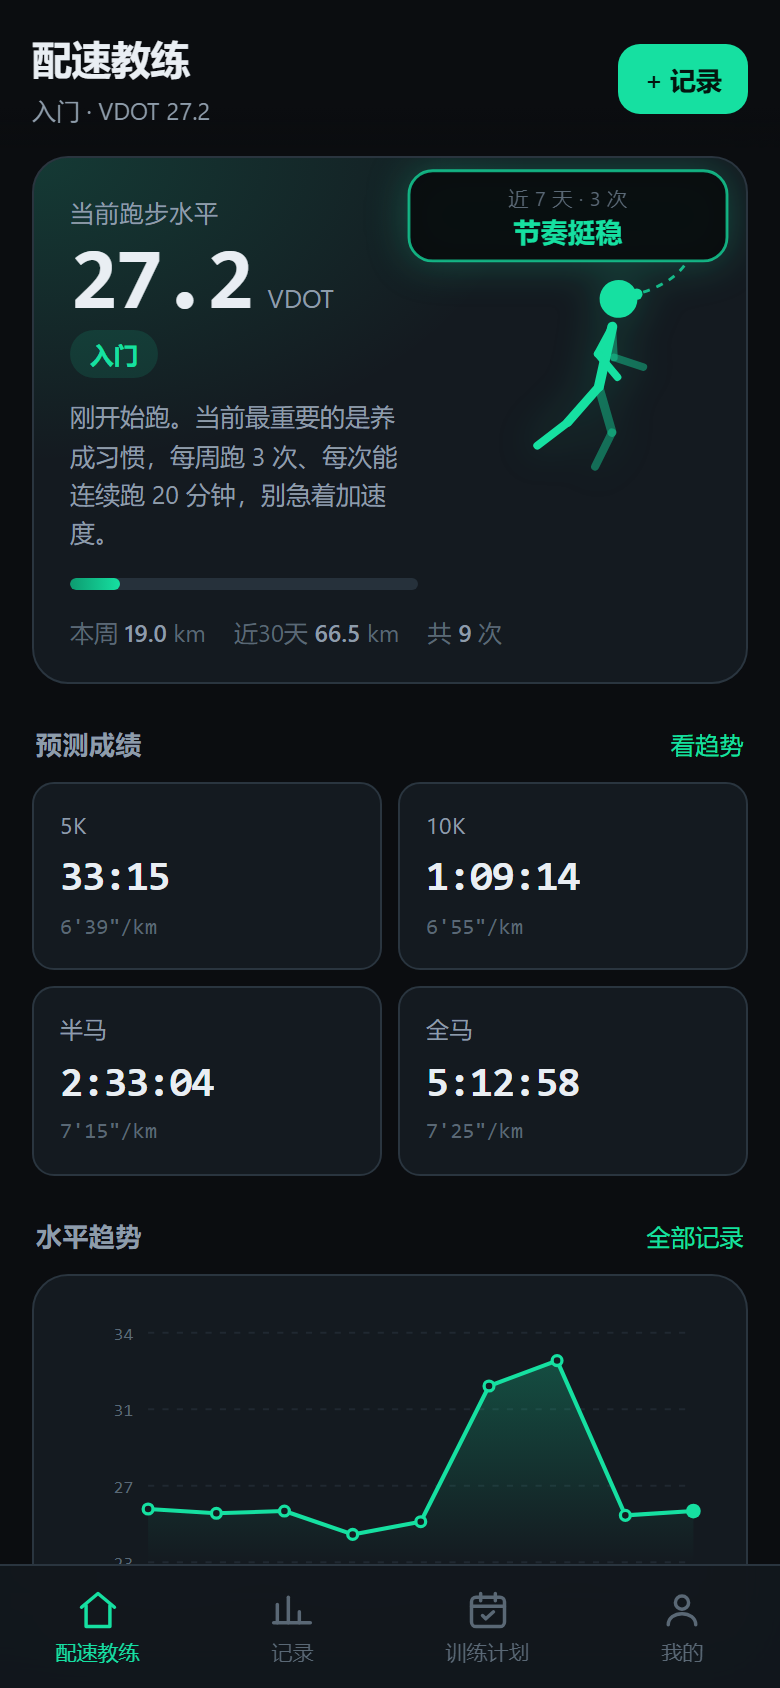
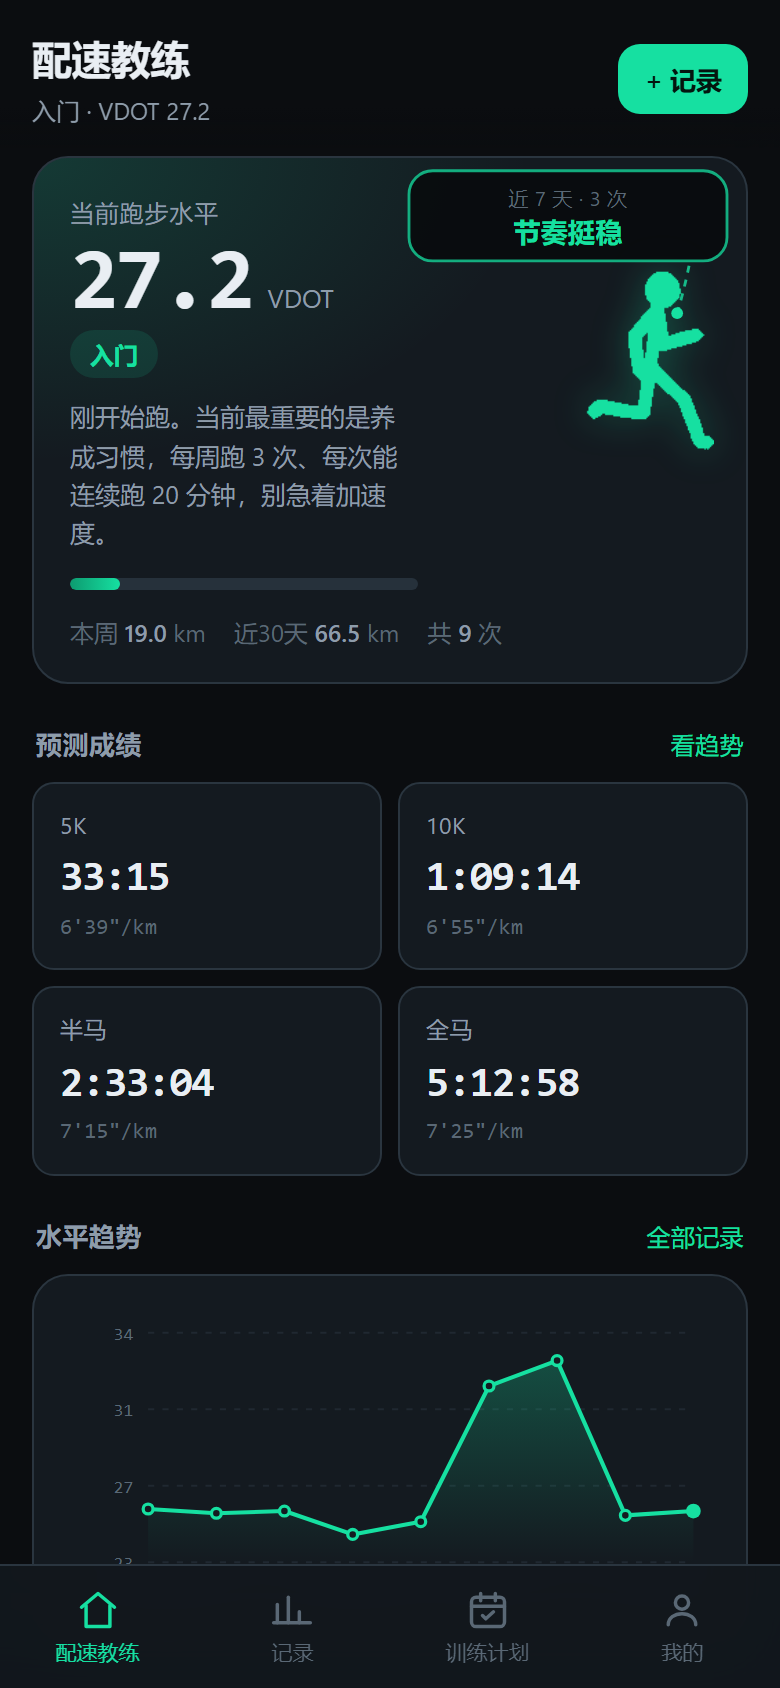
feat: 火柴人改用参考视频的 9 帧序列图（v1.4.2）
我按「看图估关节角度」的方式手画过两版，都被判定不像 —— 火柴人跑步的关节
关系比想象中微妙，差 10 度就是「跨大步」和「小碎步」的区别。

既然有权威动作参考，就不再自己设计姿势：
- 从用户给的 9 帧分解图里把火柴人抠出来（蓝色 mask + 开运算去噪）
- 用固定裁剪框保证 9 帧对齐，播放时不跳
- 颜色替换成主色 #16e0a1
- 9 帧透明 PNG 共 8.4KB

数据驱动保留在速度：一个完整循环 = 120 / 步频 秒，9 帧均分。
帧图叠放在同一位置靠 .on 切换显隐，避免换 src 时闪白；启动时预解码。

顺带修：批量替换时误删了 heroCard / predGrid 两个函数，从 git 取回。
Image 预加载加 typeof 保护（单测在 node 里跑，没有这个构造函数）。

Changed region(s): [[0.6769, 0.154, 0.9231, 0.2773]]

diff --git a/js/app.js b/js/app.js
@@ -35,6 +35,16 @@ function recompute() {
 let stats;
 recompute();
 
+// 预热火柴人的 9 张序列帧：提前解码，切帧时才不会闪白。
+// 用 typeof 判断而不是直接 new Image()：单测在 node 里跑，没有这个构造函数，
+// 模块顶层一碰就抛错，整个测试文件跟着挂。
+if (typeof Image !== 'undefined') {
+  for (let i = 1; i <= 9; i++) {
+    const im = new Image();
+    im.src = `assets/runner/f${i}.png`;
+  }
+}
+
 const ui = { tab: 'home', modal: null, ocr: null, planWeeks: 4, planFilter: 'all' };
 
 // 支持 index.html#plan 直接打开某个 tab。
@@ -100,161 +110,16 @@ const ICON = {
  * "绕一个点旋转"，拼不出膝盖向后折成 V 字这种形状（试过，折角小了像走路、
  * 折角大了像腿断）。这里每帧重算 6 个关节坐标、10 条线段，开销可以忽略。
  */
-function runnerFigure() {
-  const rh = stats.rhythm;
-  const mood = stats.mood;
-  if (!rh || !mood) return '';
-
-  const tone =
-    { good: 'var(--primary)', warn: 'var(--warn)', calm: 'var(--text-dim)', danger: 'var(--danger)' }[mood.tone] ||
-    'var(--primary)';
-
-  const sub = `近 7 天 · ${rh.count} 次${rh.estimated ? '（估算）' : ''}`;
-  const back = 'rgba(22,224,161,0.42)';
-
-  return `
-  <svg class="runner-art" viewBox="0 0 150 134" aria-hidden="true">
-    <!-- 骨架：所有坐标由 startRunnerAnim() 每帧重算 -->
-    <g class="fig">
-      <!-- 后臂（暗） -->
-      <line class="a-b-up" stroke="${back}" stroke-width="3.2" stroke-linecap="round"/>
-      <line class="a-b-fore" stroke="${back}" stroke-width="3.2" stroke-linecap="round"/>
-      <!-- 后腿（暗） -->
-      <line class="l-b-thigh" stroke="${back}" stroke-width="3.8" stroke-linecap="round"/>
-      <line class="l-b-shin" stroke="${back}" stroke-width="3.4" stroke-linecap="round"/>
-
-      <!-- 躯干 + 头 -->
-      <line class="spine" stroke="var(--primary)" stroke-width="4.2" stroke-linecap="round"/>
-      <circle class="head" r="8" fill="var(--primary)"/>
-
-      <!-- 前腿（亮） -->
-      <line class="l-f-thigh" stroke="var(--primary)" stroke-width="3.8" stroke-linecap="round"/>
-      <line class="l-f-shin" stroke="var(--primary)" stroke-width="3.4" stroke-linecap="round"/>
-      <!-- 前臂（亮） -->
-      <line class="a-f-up" stroke="var(--primary)" stroke-width="3.2" stroke-linecap="round"/>
-      <line class="a-f-fore" stroke="var(--primary)" stroke-width="3.2" stroke-linecap="round"/>
-    </g>
-
-    <!-- 状态气泡：压在火柴人右上，虚线引线指到头部 -->
-    <g class="mood-bubble" data-act="mood:info">
-      <rect x="8" y="2" width="134" height="38" rx="10"
-        fill="rgba(9,12,14,0.94)" stroke="${tone}" stroke-width="1.2" stroke-opacity="0.75"/>
-      <text x="75" y="17" text-anchor="middle" font-size="8.5" fill="var(--text-faint)" letter-spacing="0.2">${esc(sub)}</text>
-      <text x="75" y="32" text-anchor="middle" font-size="11.5" font-weight="600" fill="${tone}">${esc(mood.text)}</text>
-      <path d="M124 42 Q118 50 104 54" fill="none" stroke="${tone}" stroke-width="1.2"
-        stroke-dasharray="3 3" stroke-opacity="0.8"/>
-      <circle cx="104" cy="54" r="2.6" fill="${tone}">
-        <animate attributeName="r" values="2;3.2;2" dur="2s" repeatCount="indefinite"/>
-      </circle>
-    </g>
-  </svg>`;
-}
-
-let runnerRAF = 0;
-
-/** 逐帧驱动火柴人。render() 之后调用；页面切走时靠 contains 检查自然停下。 */
-function startRunnerAnim() {
-  if (runnerRAF) cancelAnimationFrame(runnerRAF);
-  runnerRAF = 0;
-
-  const svg = document.querySelector('.runner-art');
-  const rh = stats.rhythm;
-  if (!svg || !rh) return;
-
-  const clamp = (v, lo, hi) => (v < lo ? lo : v > hi ? hi : v);
-
-  const cycle = clamp(120 / rh.cadence, 0.54, 1.05);
-  const swing = (clamp(22 + (rh.strideCm - 70) * 0.42, 22, 48) * Math.PI) / 180;
-  // 前倾给到 8–24 度：低于 8 度看着像走路，超过 24 度开始像摔倒
-  const lean = clamp(8 + (480 - rh.paceSec) * 0.06, 8, 24);
-
-  const q = (s) => svg.querySelector(s);
-  const fig = q('.fig');
-  const spine = q('.spine');
-  const head = q('.head');
-  const nodes = {
-    lfT: q('.l-f-thigh'), lfS: q('.l-f-shin'),
-    lbT: q('.l-b-thigh'), lbS: q('.l-b-shin'),
-    afU: q('.a-f-up'), afF: q('.a-f-fore'),
-    abU: q('.a-b-up'), abF: q('.a-b-fore'),
-  };
-  if (!fig || !spine || !head) return;
-
-  // 骨架尺寸（viewBox 150×134）。髋是全身的根，头/肩/腿都相对它算。
-  const HIP = { x: 88, y: 94 };
-  const L1 = 20; // 大腿
-  const L2 = 16; // 小腿
-  const SH = { x: 88, y: 68 };
-  const U1 = 13; // 上臂
-  const U2 = 13; // 前臂
-  const HEAD = { x: 88, y: 56 };
-
-  const line = (n, x1, y1, x2, y2) => {
-    if (!n) return;
-    n.setAttribute('x1', x1.toFixed(1));
-    n.setAttribute('y1', y1.toFixed(1));
-    n.setAttribute('x2', x2.toFixed(1));
-    n.setAttribute('y2', y2.toFixed(1));
-  };
-
-  /**
-   * 一条腿。p 是相位：
-   *   cos(p)>0 → 大腿在前（脚落地），cos(p)<0 → 大腿在后（蹬地结束）
-   *   sin(p)<0 → 摆动相，此时膝盖后折（这是跑步最显著的视觉特征）
-   */
-  const leg = (p, thigh, shin) => {
-    const a1 = swing * Math.cos(p);
-    const knee = 0.2 + 0.82 * Math.max(0, -Math.sin(p));
-    const kx = HIP.x + L1 * Math.sin(a1);
-    const ky = HIP.y + L1 * Math.cos(a1);
-    const a2 = a1 - knee;
-    line(thigh, HIP.x, HIP.y, kx, ky);
-    line(shin, kx, ky, kx + L2 * Math.sin(a2), ky + L2 * Math.cos(a2));
-  };
-
-  /** 一条臂。跑步时手臂始终保持弯曲，这是姿态像不像的关键。 */
-  const arm = (p, up, fore) => {
-    const a1 = -0.55 * swing * Math.cos(p);
-    const ELBOW = 1.2;
-    const ex = SH.x + U1 * Math.sin(a1);
-    const ey = SH.y + U1 * Math.cos(a1);
-    const a2 = a1 + ELBOW;
-    line(up, SH.x, SH.y, ex, ey);
-    line(fore, ex, ey, ex + U2 * Math.sin(a2), ey + U2 * Math.cos(a2));
-  };
-
-  const t0 = performance.now();
-
-  const frame = (now) => {
-    // 重渲染会把节点整个换掉，这里检测到就停，避免对已删除的节点做无用功
-    if (!document.body.contains(svg)) {
-      runnerRAF = 0;
-      return;
-    }
-    const ph = (((now - t0) / 1000) / cycle) * Math.PI * 2;
-
-    // 每落地一步身体下沉一次，所以是一个周期两次
-    const bob = -1.4 * Math.abs(Math.sin(ph));
-    fig.setAttribute(
-      'transform',
-      `translate(0 ${bob.toFixed(2)}) rotate(${lean.toFixed(1)} ${HIP.x} ${HIP.y})`
-    );
-
-    line(spine, HIP.x, HIP.y, SH.x, SH.y);
-    head.setAttribute('cx', HEAD.x);
-    head.setAttribute('cy', HEAD.y);
-
-    leg(ph, nodes.lfT, nodes.lfS);
-    leg(ph + Math.PI, nodes.lbT, nodes.lbS);
-    arm(ph + Math.PI, nodes.afU, nodes.afF);
-    arm(ph, nodes.abU, nodes.abF);
-
-    runnerRAF = requestAnimationFrame(frame);
-  };
-
-  frame(t0);
-}
-
+/**
+ * 火柴人：直接用视频里抠出来的 9 帧序列图。
+ *
+ * 为什么不再手画骨架：我按"看图估角度"的方式画过两版，都被判定不像 ——
+ * 火柴人跑步的关节关系比想象中微妙，差 10 度就是"跨大步"和"小碎步"的区别。
+ * 既然用户给了权威动作参考，就用像素级的复刻，把"我理解的姿势"这个变量彻底去掉。
+ *
+ * 数据驱动保留在速度上：一个完整循环 = 120 / 步频 秒，9 帧均分。
+ * 步频 174 和 168 播放速度确实不同，这个仍然是用户自己的节奏。
+ */
 function heroCard() {
   if (!stats.count) return '';
   const lv = stats.level;
@@ -289,6 +154,80 @@ function predGrid() {
       </div>`
     ).join('')}
   </div>`;
+}
+
+function runnerFigure() {
+  const rh = stats.rhythm;
+  const mood = stats.mood;
+  if (!rh || !mood) return '';
+
+  const tone =
+    { good: 'var(--primary)', warn: 'var(--warn)', calm: 'var(--text-dim)', danger: 'var(--danger)' }[mood.tone] ||
+    'var(--primary)';
+
+  const sub = `近 7 天 · ${rh.count} 次${rh.estimated ? '（估算）' : ''}`;
+
+  let frames = '';
+  for (let i = 1; i <= 9; i++) {
+    frames += `<img class="rf${i === 1 ? ' on' : ''}" src="assets/runner/f${i}.png" alt="" draggable="false">`;
+  }
+
+  return `
+  <div class="runner-art">
+    <div class="runner-frames">${frames}</div>
+    <svg class="mood-layer" viewBox="0 0 150 134" aria-hidden="true">
+      <g class="mood-bubble" data-act="mood:info">
+        <rect x="8" y="2" width="134" height="38" rx="10"
+          fill="rgba(9,12,14,0.94)" stroke="${tone}" stroke-width="1.2" stroke-opacity="0.75"/>
+        <text x="75" y="17" text-anchor="middle" font-size="8.5" fill="var(--text-faint)" letter-spacing="0.2">${esc(sub)}</text>
+        <text x="75" y="32" text-anchor="middle" font-size="11.5" font-weight="600" fill="${tone}">${esc(mood.text)}</text>
+        <path d="M126 42 Q124 52 121 62" fill="none" stroke="${tone}" stroke-width="1.2"
+          stroke-dasharray="3 3" stroke-opacity="0.8"/>
+        <circle cx="121" cy="62" r="2.6" fill="${tone}">
+          <animate attributeName="r" values="2;3.2;2" dur="2s" repeatCount="indefinite"/>
+        </circle>
+      </g>
+    </svg>
+  </div>`;
+}
+
+var runnerRAF = 0;
+
+/** 按步频切帧。render() 之后调用；页面切走时靠 contains 检查自然停下。 */
+function startRunnerAnim() {
+  if (runnerRAF) cancelAnimationFrame(runnerRAF);
+  runnerRAF = 0;
+
+  const wrap = document.querySelector('.runner-frames');
+  const rh = stats.rhythm;
+  if (!wrap || !rh) return;
+
+  const imgs = wrap.querySelectorAll('img');
+  if (!imgs.length) return;
+
+  const cadence = Math.min(210, Math.max(120, Number(rh.cadence) || 170));
+  const cycle = 120 / cadence;
+  const perFrame = (cycle * 1000) / imgs.length;
+
+  let idx = 0;
+  let last = performance.now();
+
+  const tick = (now) => {
+    if (!document.body.contains(wrap)) {
+      runnerRAF = 0;
+      return;
+    }
+    if (now - last >= perFrame) {
+      // 用取模对齐时间基准，避免 rAF 抖动累积成肉眼可见的速度漂移
+      last = now - ((now - last) % perFrame);
+      imgs[idx].classList.remove('on');
+      idx = (idx + 1) % imgs.length;
+      imgs[idx].classList.add('on');
+    }
+    runnerRAF = requestAnimationFrame(tick);
+  };
+
+  runnerRAF = requestAnimationFrame(tick);
 }
 
 /**

diff --git a/css/app.css b/css/app.css
@@ -196,8 +196,35 @@ main {
   height: 159px;
   z-index: 1;
   pointer-events: none;
-  /* 淡绿光晕，让绿线条在深色卡片上"亮"起来而不是浮着 */
-  filter: drop-shadow(0 0 10px rgba(22, 224, 161, 0.28));
+}
+/* 序列帧：9 张图叠在同一位置，靠 .on 切换显隐。
+   叠放而不是换 src，是为了避免切帧时闪白 —— 图片早就解码好了。 */
+.runner-frames {
+  position: absolute;
+  right: 14px;
+  bottom: 6px;
+  width: 82px;
+  height: 105px;
+  filter: drop-shadow(0 0 9px rgba(22, 224, 161, 0.3));
+}
+.runner-frames .rf {
+  position: absolute;
+  inset: 0;
+  width: 100%;
+  height: 100%;
+  object-fit: contain;
+  object-position: center bottom;
+  opacity: 0;
+  image-rendering: auto;
+}
+.runner-frames .rf.on { opacity: 1; }
+
+.mood-layer {
+  position: absolute;
+  inset: 0;
+  width: 100%;
+  height: 100%;
+  overflow: visible;
 }
 .runner-art .mood-bubble { pointer-events: auto; cursor: pointer; }
 .runner-art .mood-bubble:active { opacity: 0.7; }
